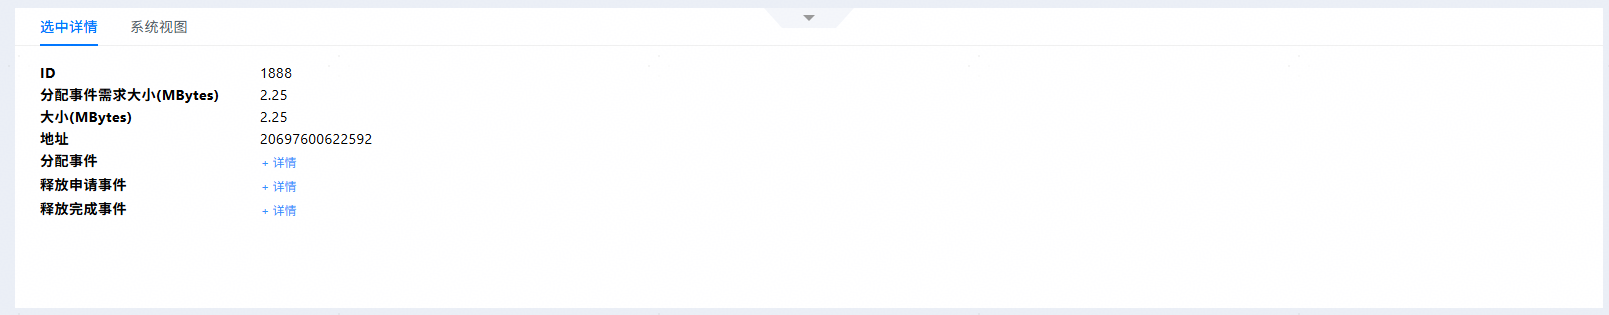
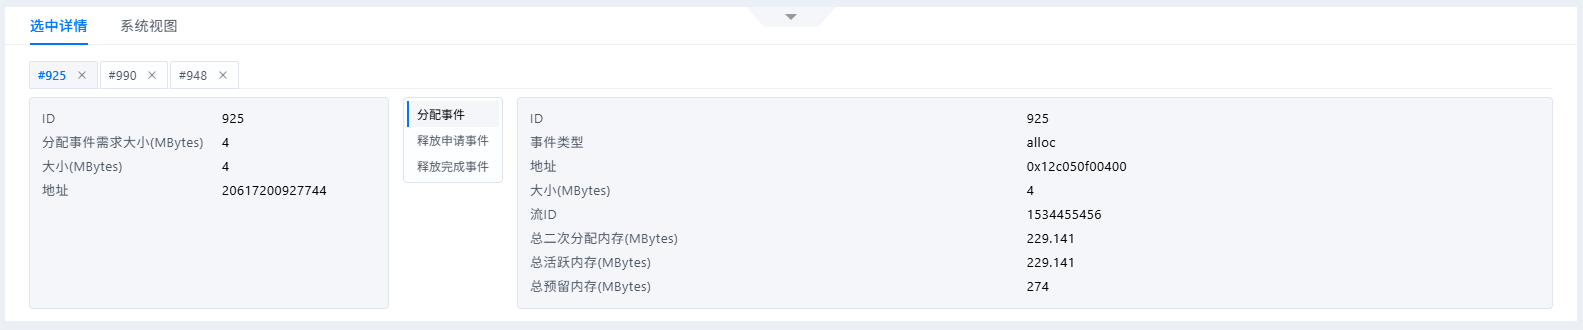
【docs】：内存调优选中详情界面变更，安全声明更新，增加帮助文档以及求助与反馈介绍

diff --git a/docs/zh/user_guide/mindstudio_insight_install_guide.md b/docs/zh/user_guide/mindstudio_insight_install_guide.md
@@ -66,7 +66,7 @@ MindStudio Insight支持在Windows、Linux和macOS系统上安装使用，并且
 
 ### 详细软件包清单
 
-如需历史版本或其他版本，单击获取[软件包](https://gitcode.host/Ascend/msinsight/releases)，确认版本信息后获取如[**表 1**  软件包清单](#软件包清单)所示软件包。
+单击[MindStudio Insight Release](https://gitcode.com/Ascend/msinsight/releases)，确认版本信息后获取如[**表 1**  软件包清单](#软件包清单)所示软件包。
 
 **表 1**  软件包清单<a id="软件包清单"></a>
 
@@ -81,30 +81,31 @@ MindStudio Insight支持在Windows、Linux和macOS系统上安装使用，并且
 
 为了防止软件包在传递过程或存储期间被恶意篡改，下载软件包时需下载对应软件包的.sha256文件用于完整性验证。
 
-请单击[数字签名文件](https://gitcode.host/Ascend/msinsight/releases)获取对应软件包的.sha256文件，对下载的软件包进行完整性校验。如果校验失败，请不要使用该软件包，访问支持与服务在论坛求助或提交技术工单。
+单击[MindStudio Insight Release](https://gitcode.com/Ascend/msinsight/releases)获取对应软件包的哈希校验文件（.sha256），并对[下载的软件包](#软件包下载)进行完整性校验。如果校验失败，请不要使用该软件包，需要支持与服务请在论坛求助或提交技术工单。
+
 具体校验方法如下：
 
-1. 在本地计算软件包的sha256值
+1. 在本地获取软件包的sha256校验码
 
-    Windows系统,使用如下命令获取对应软件包的sha256值
+    Windows系统，使用如下命令获取对应软件包的sha256校验码
 
     ```powershell
     certutil -hashfile 软件包名 SHA256
     ```
 
-    MacOS系统,使用如下命令获取对应软件包的sha256值
+    MacOS系统，使用如下命令获取对应软件包的sha256校验码
 
     ```shell
     shasum -a 256 软件包名
     ```
 
-    Linux系统,使用如下命令获取对应软件包的sha256值
+    Linux系统，使用如下命令获取对应软件包的sha256检验码
 
     ```bash
     sha256sum 软件包名
     ```
 
-2. 将获取到的值和官方提供的.sha256文件中的值（不区分大小写）进行比较，如果一致，则说明软件包没有被篡改。
+2. 打开查看对应哈希校验文件中的校验码和获取到的校验码（不区分大小写）进行比较，如果一致，则说明软件包通过完整性校验。
 
 <br>
 

diff --git a/docs/zh/user_guide/security_statement.md b/docs/zh/user_guide/security_statement.md
@@ -6,6 +6,7 @@
 - 为确保安全性，建议整包使用MindStudio Insight工具。如果需要二次开发，请自行关注并处理可能引入的安全风险。
 - MindStudio Insight为开发阶段工具，不建议通过X协议转发进行使用，建议在本地启动使用。
 - 除通过JupyterLab插件安装使用场景外，MindStudio Insight为本地工具，默认安全，如果需要打开端口，请注意远程通信带来的安全风险。JupyterLab插件的安全加固建议详见“通信安全加固”部分。
+- 本工具属于开发态工具，不限制安装属主与权限，不限制工具处理文件对象的属主与权限，需用户基于使用场景分配合适的属主、权限，并确保工具处理的文件内容安全可信。
 
 ## 运行用户建议
 